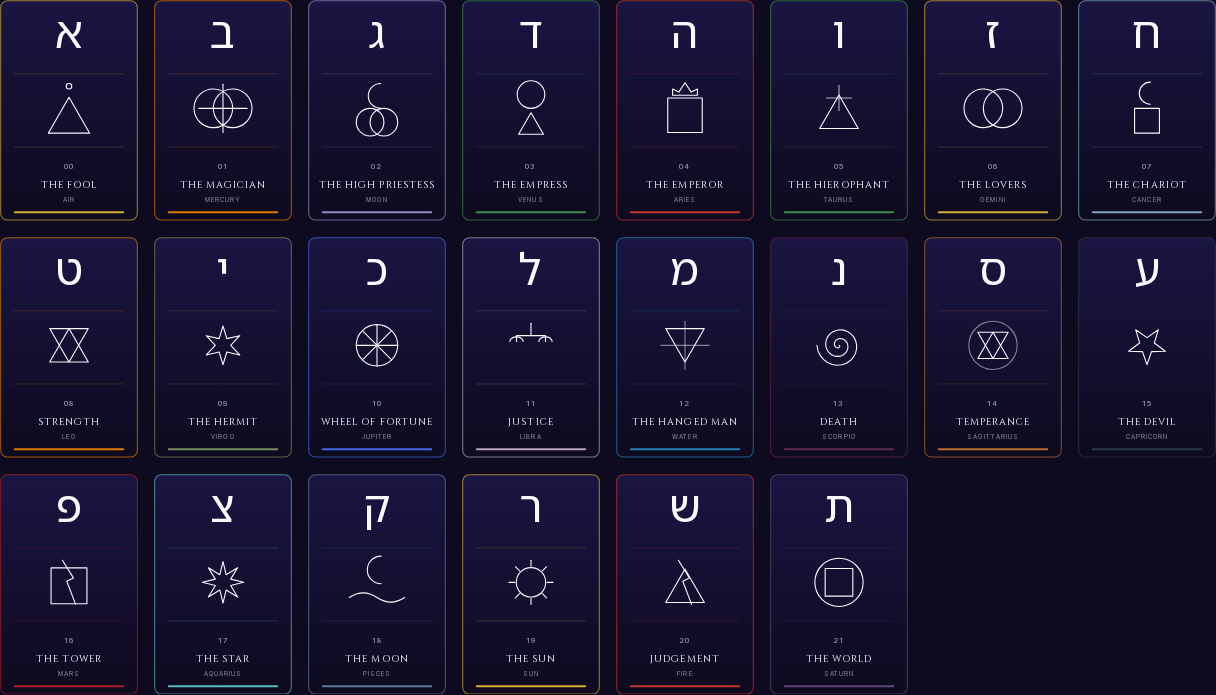
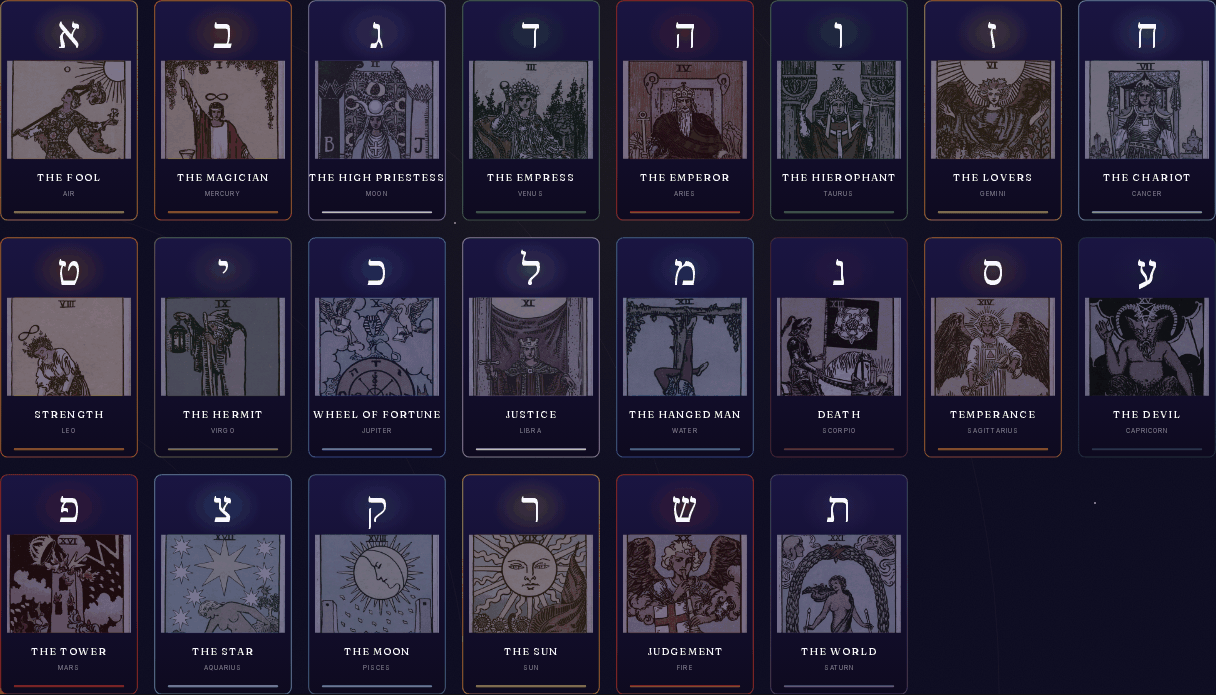
fix(cards): address review — regenerate marketing shots, guard the image map, soften licence wording (#369)
- assets/marketing/{demo-cards,play-mid-game}-desktop.png re-captured from
  the new art (README and /about embedded the old US-Games-colourway cards);
  palette-quantised to 256 colours so the refresh shrinks the pack instead
  of growing it. Pack was already over its 1.5 MiB cap before this branch;
  README size note corrected, cap enforcement left for a follow-up.
- about-* and home-{desktop,tablet} visual baselines re-captured (they
  render those marketing PNGs).
- New vitest: every RW_IMAGE_FILE entry exists on disk and no legacy .jpg
  remains under public/rider-waite-cards.
- LICENSE.md: not-legal-advice note, Bridgeman/Art. 14 scope stated
  precisely, UK scan position flagged as less settled, forward-only removal
  caveat, ffmpeg/libwebp version recorded for the rebuild recipe.
- ArcanumCard aspect comment updated for the ~1:1.68 scans.

Refs #369

diff --git a/components/cards/__tests__/rw-image-map.test.ts b/components/cards/__tests__/rw-image-map.test.ts
@@ -1,0 +1,27 @@
+import { existsSync, readdirSync } from 'fs';
+import path from 'path';
+
+import { describe, expect, it } from 'vitest';
+
+import { RW_IMAGE_FILE } from '../rw-image-map';
+
+// The map is the only link between ArcanumCard and the files on disk; a
+// renamed or missing image would otherwise surface only as a broken <image>
+// in the browser. Keep the two in lock-step.
+const PUBLIC_DIR = path.join(process.cwd(), 'public', 'rider-waite-cards');
+
+describe('RW_IMAGE_FILE', () => {
+  it('maps every major arcanum 0–21 to a file that exists on disk', () => {
+    for (let n = 0; n <= 21; n++) {
+      const file = RW_IMAGE_FILE[n];
+      expect(file, `arcanum ${n} has a mapping`).toBeDefined();
+      expect(existsSync(path.join(PUBLIC_DIR, file as string)), `${file} exists`).toBe(true);
+    }
+  });
+
+  it('ships only the derived WebPs — no legacy JPEGs of unknown provenance (#369)', () => {
+    const files = readdirSync(PUBLIC_DIR);
+    expect(files.filter((f) => f.endsWith('.jpg'))).toEqual([]);
+    expect(files.filter((f) => f.endsWith('.webp'))).toHaveLength(22);
+  });
+});

diff --git a/components/cards/ArcanumCard.tsx b/components/cards/ArcanumCard.tsx
@@ -50,7 +50,8 @@ export function ArcanumCard(props: ArcanumCardProps): JSX.Element {
   const imageFile = RW_IMAGE_FILE[arcanum.number];
   if (!imageFile) throw new Error(`No Rider-Waite image mapped for arcanum ${arcanum.number}`);
 
-  // Scale image so its width fills ART_ZONE_W; RW cards are ~1:1.74 (w:h).
+  // Scale image so its width fills ART_ZONE_W. The 1910 Pam-A scans are ~1:1.68
+  // (w:h); 1.74 leaves a little vertical headroom and the slice crop absorbs it.
   const imgW = ART_ZONE_W;
   const imgH = Math.round(ART_ZONE_W * 1.74);
 

diff --git a/assets/rider-waite-cards/LICENSE.md b/assets/rider-waite-cards/LICENSE.md
@@ -1,4 +1,8 @@
-# Rider-Waite-Smith card asset licensing
+# Waite-Smith card asset licensing
+
+> Provenance notes written by the maintainers, not legal advice. Each
+> claim below names the basis it rests on; verify against your own
+> jurisdiction before relying on it commercially.
 
 The 22 major arcana JPEGs in this directory are **unmodified downloads
 from Wikimedia Commons** of a 1910 "Pam-A" printing of the tarot deck
@@ -19,13 +23,18 @@ sha1sum assets/rider-waite-cards/*.jpg
 
 - **United States:** published 1909/1910, i.e. before 1931, so the
   artwork is in the public domain regardless of any renewal history.
-- **UK / EU / life+70 jurisdictions:** the last surviving author,
-  Pamela Colman Smith, died in 1951; the work entered the public domain
-  on 2022-01-01.
-- **The scans themselves** add no new copyright: faithful reproductions
-  of public-domain 2D works are unprotected in the US (*Bridgeman Art
-  Library v. Corel*) and the EU (Directive 2019/790, Art. 14). Commons
-  tags the files `PD-old-80-expired` and `CC-PD-Mark`.
+- **UK / EU / life+70 jurisdictions:** the term runs from the death of
+  the last surviving author, Pamela Colman Smith (d. 1951), so the work
+  entered the public domain on 2022-01-01.
+- **The scans themselves:** faithful photographic reproductions of a
+  public-domain 2D work gain no new copyright under the US authority
+  usually cited (*Bridgeman Art Library v. Corel*, S.D.N.Y. 1999, a
+  district-court decision followed widely but not binding everywhere)
+  and, in EU member states, under Directive 2019/790 Art. 14. The UK has
+  no Art. 14 equivalent and relies on case law, so the UK position on
+  scans is less settled than on the underlying art. Commons tags the
+  files `PD-old-80-expired` and `CC-PD-Mark` (visible on each file page
+  linked in the table below).
 
 ## What is NOT covered (do not swap these in)
 
@@ -34,14 +43,17 @@ sha1sum assets/rider-waite-cards/*.jpg
   copyright in those colourings, card backs and boxes. The previous
   contents of this folder and of `public/rider-waite-cards/` were
   199×340 JPEGs of unknown origin whose colourway matched the 1971
-  edition; both copies were removed in #369.
+  edition; both copies were removed in #369. Removal is forward-only:
+  the old files remain in git history before that merge and nobody
+  should read "removed" as "purged".
 - **The "Rider-Waite" and "Rider" trademarks**, held by US Games. Use
   "Waite-Smith" or "Smith-Waite" in any product-facing copy; naming the
   source in a credits line is fine.
 - **Tarot de Marseille modern editions:** the 1930 Grimaud / Paul
-  Marteau recolour, the 1997 Camoin-Jodorowsky restoration, the Flornoy
-  restorations, and the CBD Tarot (Creative Commons, non-commercial
-  only) are all encumbered. If a Marseille look is ever wanted, use the
+  Marteau recolour, the 1997 Camoin-Jodorowsky restoration and the
+  Flornoy restorations are 20th/21st-century derivative works and should
+  be treated as protected; the CBD Tarot (Yoav Ben-Dov) is distributed
+  under a Creative Commons non-commercial licence per its author's site. If a Marseille look is ever wanted, use the
   Jean Dodal (1701-1715) or Nicolas Conver (1760) scans on Wikimedia
   Commons / BnF Gallica, which are public domain on the same basis as
   the files here.
@@ -81,8 +93,10 @@ sha1sum assets/rider-waite-cards/*.jpg
 source JPEGs in this directory; the originals stay untouched so the SHA-1
 table above remains valid.
 
-Rebuild recipe (deterministic — re-running on the same machine produces
-byte-identical output, so a developer can regenerate without diff churn):
+Rebuild recipe (reproducible: the same ffmpeg/libwebp build produces
+byte-identical output, so a developer can regenerate without diff churn;
+the committed WebPs were made with ffmpeg 5.1.9 / libwebp as packaged in
+Debian 12):
 
 ```bash
 for src in assets/rider-waite-cards/*.jpg; do

diff --git a/assets/marketing/README.md b/assets/marketing/README.md
@@ -42,8 +42,10 @@ pack" below.
 Keep this directory under **1.5 MiB total**. Above that, marketing
 assets should move to git LFS or an external CDN — committing
 multiple megabytes of binary into the main repo bloats clones for
-everyone. Current size: ~1432 KiB across 13 PNGs (~70 KiB under the
-cap).
+everyone. Current size: ~2623 KiB across 13 PNGs — **over the cap**; the
+pack was already ~2782 KiB before #369 (which shrank it by ~160 KiB by
+palette-quantising the two refreshed captures). Bringing the pack back
+under the cap is tracked separately.
 
 The cap was tightened from "1 MB" to "1024 KiB" in #266 (resolving
 SI-vs-binary ambiguity); #271 raised it to 1.5 MiB to accommodate
